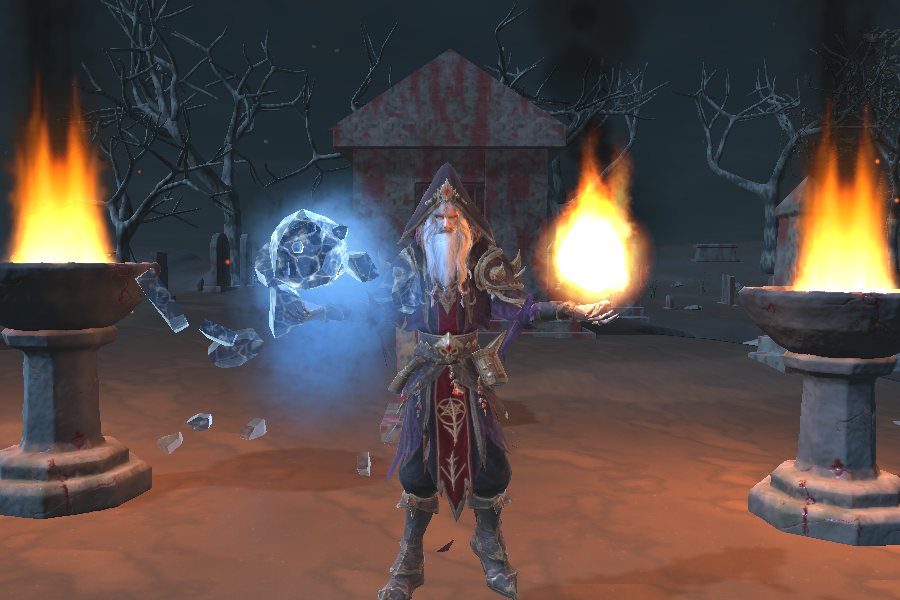
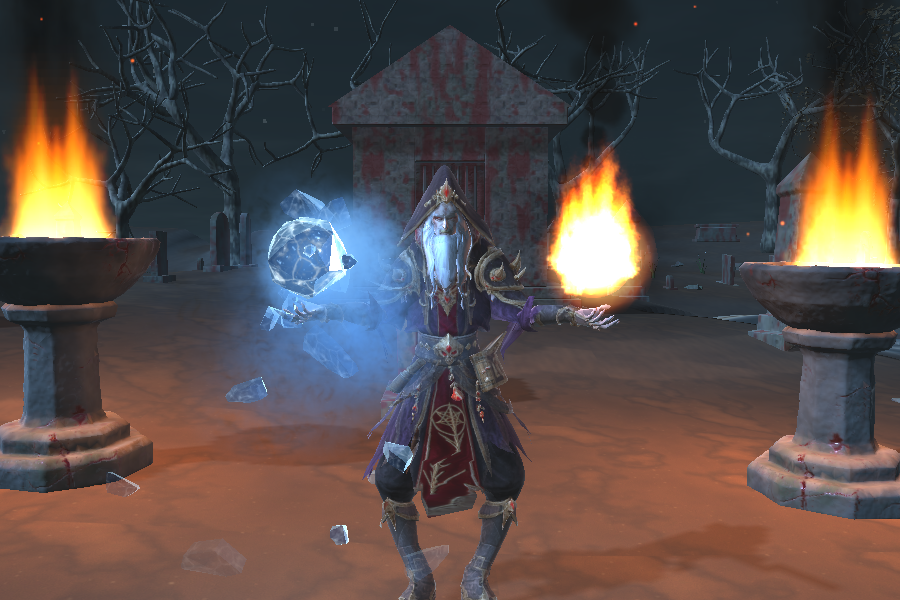
Man chinh: phu thuy dung yen, nhin thang may quay, hai chan bang nhau cham dat (nguoi dung)
- MainMenuUI: bo tu xoay 18 do/giay (xoa spinSpeed).
- TuTheTrungBay: Start quay mat thang vao Camera.main; moi khung xuong chan ve goc BIND POSE cua model (GocChanBind ghi cung - luoi Read/Write tat), dui + cang chan ngam thang xuong, ban chan phang; khung dau BakeMesh mot lan, ha goc cho ben ho nhieu nhat vua cham dat (dat doc: ben kia lun 1,6 cm).
- Truoc: menu 51 dat goc cao 0,2 m, lech may quay 20 do, tu the buoc do -> de giay ho 0,16 m. DungManChinh nay dat sat dat, nhin thang (chua chay lai menu 51).
- Menu 101c them do chan + huong (doi chung = tu the cu trong scene): lech 0,0 do (cu 20), ho dat 0,000 / -0,016 m (cu 0,163 / 0,152), co chan lech 0,000 (cu 0,079), goi 0 do (cu 75 / 53), de giay cham dat 0,32 / 0,32 m (cu 0,00 / 0,33), 2 s quay them 0,00 do; tay + qua cau giu nguyen. 0 loi.

diff --git a/Assets/Editor/ThuTayTrungBay.cs b/Assets/Editor/ThuTayTrungBay.cs
@@ -118,12 +118,90 @@ public static class ThuTayTrungBay
     static bool daBatDau101c;
     const string Ra101c = "PlayTestShots/tay_trungbay_play.txt";
 
+    /// <summary>So do chan + huong cua nhan vat trung bay (05/10/2026: dung hai chan bang nhau, cham dat, nhin thang may quay).</summary>
+    struct SoChan { public float lechMayQuay, kheTrai, khePhai, lechCoChan, lechMuiChan, rongChan, gapGoiTrai, gapGoiPhai, deTrai, dePhai; }
+
+    /// <summary>
+    /// Do DOC LAP voi TuTheTrungBay: mat dat lay bang Terrain.SampleHeight (code dung tia lop Ground), xuong chan doc thang tu khung
+    /// xuong (khong qua mang huong cua code), de giay = dinh thap nhat moi ben (BakeMesh) - ben chia theo mat phang giua cua XUONG HONG.
+    /// </summary>
+    static SoChan DoChan(Transform nv, Camera cam)
+    {
+        var s = new SoChan();
+        Vector3 veCam = cam.transform.position - nv.position; veCam.y = 0f;
+        Vector3 truoc = nv.forward; truoc.y = 0f;
+        s.lechMayQuay = Vector3.Angle(truoc, veCam);
+        Transform[] co = new Transform[2], mui = new Transform[2], dui = new Transform[2], cang = new Transform[2];
+        string[] ben = { "Left", "Right" };
+        foreach (var t in nv.GetComponentsInChildren<Transform>(true))
+            for (int i = 0; i < 2; i++)
+            {
+                if (t.name == ben[i] + "Foot") co[i] = t;
+                if (t.name == ben[i] + "ToeBase") mui[i] = t;
+                if (t.name == ben[i] + "UpLeg") dui[i] = t;
+                if (t.name == ben[i] + "Leg") cang[i] = t;
+            }
+        s.lechCoChan = Mathf.Abs(co[0].position.y - co[1].position.y);
+        s.lechMuiChan = Mathf.Abs(mui[0].position.y - mui[1].position.y);
+        s.rongChan = Mathf.Abs(Vector3.Dot(co[0].position - co[1].position, nv.right));
+        s.gapGoiTrai = Vector3.Angle(cang[0].position - dui[0].position, co[0].position - cang[0].position);
+        s.gapGoiPhai = Vector3.Angle(cang[1].position - dui[1].position, co[1].position - cang[1].position);
+        Vector3 giua = (dui[0].position + dui[1].position) * 0.5f, phai = (dui[1].position - dui[0].position); phai.y = 0f; phai.Normalize();
+        var thap = new[] { Vector3.up * 1e6f, Vector3.up * 1e6f };
+        var luoi = new UnityEngine.Mesh(); var dinh = new List<Vector3>(); var tatCa = new List<Vector3>();
+        foreach (var smr in nv.GetComponentsInChildren<SkinnedMeshRenderer>())
+        {
+            smr.BakeMesh(luoi, true); luoi.GetVertices(dinh);
+            foreach (var v in dinh)
+            {
+                Vector3 p = smr.transform.position + smr.transform.rotation * v;
+                tatCa.Add(p);
+                int i = Vector3.Dot(p - giua, phai) >= 0f ? 1 : 0;
+                if (p.y < thap[i].y) thap[i] = p;
+            }
+        }
+        Object.DestroyImmediate(luoi);
+        // DE GIAY PHANG: chieu dai (theo huong nhin) cua phan de nam trong 1,5 cm tren dinh thap nhat moi ben - dat phang thi ca de giay
+        // tu got toi mui cham dat (dai), kieng mui / nhac got thi chi mot diem (ngan)
+        var deMin = new[] { 1e6f, 1e6f }; var deMax = new[] { -1e6f, -1e6f };
+        Vector3 truocNv = nv.forward; truocNv.y = 0f; truocNv.Normalize();
+        foreach (var p in tatCa)
+        {
+            int i = Vector3.Dot(p - giua, phai) >= 0f ? 1 : 0;
+            if (p.y > thap[i].y + 0.015f) continue;
+            float z = Vector3.Dot(p, truocNv);
+            deMin[i] = Mathf.Min(deMin[i], z); deMax[i] = Mathf.Max(deMax[i], z);
+        }
+        s.deTrai = deMax[0] - deMin[0]; s.dePhai = deMax[1] - deMin[1];
+        var ter = Terrain.activeTerrain;
+        System.Func<Vector3, float> dat = p => ter != null ? ter.SampleHeight(p) + ter.transform.position.y : 0f;
+        s.kheTrai = thap[0].y - dat(thap[0]);
+        s.khePhai = thap[1].y - dat(thap[1]);
+        return s;
+    }
+
+    static string MoTa(SoChan s)
+    {
+        return string.Format("lech may quay {0:F1} do; khe de giay - dat: trai {1:F3} / phai {2:F3} m; co chan lech cao {3:F3} m, mui chan {4:F3} m; hai chan cach {5:F2} m; goi gap trai {6:F1} / phai {7:F1} do; de giay cham dat dai trai {8:F2} / phai {9:F2} m",
+            s.lechMayQuay, s.kheTrai, s.khePhai, s.lechCoChan, s.lechMuiChan, s.rongChan, s.gapGoiTrai, s.gapGoiPhai, s.deTrai, s.dePhai);
+    }
+
+    /// <summary>Doi chung: tu the CU dat san trong scene (doc truoc khi vao Play).</summary>
+    static string doiChung101c; static SoChan soCu101c;
+
     [MenuItem("Diablo 2.5D/101c Chay thu tu the tay + hai qua cau o man chinh", false, 169)]
     public static void ChayTuThe()
     {
         if (EditorApplication.isPlaying || EditorSceneManager.GetActiveScene().isDirty) return;
         if (EditorSceneManager.GetActiveScene().path != "Assets/Scenes/MainMenu.unity") EditorSceneManager.OpenScene("Assets/Scenes/MainMenu.unity");
         if (File.Exists(Ra101c)) File.Delete(Ra101c);
+        var menuCu = Object.FindAnyObjectByType<MainMenuUI>();
+        doiChung101c = null;
+        if (menuCu != null && menuCu.showcase != null && Camera.main != null)
+        {
+            soCu101c = DoChan(menuCu.showcase, Camera.main);
+            doiChung101c = MoTa(soCu101c);
+        }
         daBatDau101c = false;
         EditorApplication.update -= Nhip101c;
         EditorApplication.update += Nhip101c;
@@ -151,12 +229,53 @@ public static class ThuTayTrungBay
         kiem(tt != null, "MainMenuUI khong gan TuTheTrungBay");
         if (tt != null)
         {
-            // Dung xoay, quay mat ve may quay nhu luc dung scene (menu 51) de do ben man hinh
-            float quay = menu.spinSpeed; menu.spinSpeed = 0f;
+            // 05/10/2026: KHONG con dat tay huong / dung xoay - nhan vat phai TU nhin thang may quay, dung yen, hai chan cham dat
             var cam = Camera.main;
-            Vector3 veCam = cam.transform.position - nv.position; veCam.y = 0f;
-            nv.rotation = Quaternion.LookRotation(veCam.normalized);
             yield return new WaitForSeconds(1.5f);
+            {
+                float yaw0 = nv.eulerAngles.y; float y0 = nv.position.y;
+                var moi = DoChan(nv, cam);
+                yield return new WaitForSeconds(2f);
+                yield return new WaitForEndOfFrame();
+                var sau = DoChan(nv, cam);
+                float quayThem = Mathf.Abs(Mathf.DeltaAngle(yaw0, nv.eulerAngles.y));
+                sb.AppendLine("DOI CHUNG (tu the cu trong scene, truoc Play): " + (doiChung101c ?? "KHONG DO DUOC"));
+                sb.AppendLine("MOI (Play 1,5 s): " + MoTa(moi));
+                sb.AppendLine("MOI (them 2 s):  " + MoTa(sau) + string.Format("; quay them {0:F2} do, goc dich {1:F3} m", quayThem, nv.position.y - y0));
+                var tt2 = nv.GetComponent<TuTheTrungBay>();
+                sb.AppendLine(string.Format("TuTheTrungBay: da dich goc {0:F3} m, khe de giay theo code trai {1:F3} / phai {2:F3}", tt2.DaDichGoc, tt2.KheDeGiay.x, tt2.KheDeGiay.y));
+                kiem(doiChung101c != null && soCu101c.lechMayQuay > 5f && Mathf.Max(soCu101c.kheTrai, soCu101c.khePhai) > 0.05f && soCu101c.lechCoChan > 0.05f
+                    && Mathf.Min(soCu101c.deTrai, soCu101c.dePhai) < 0.2f,
+                    "doi chung (tu the cu) khong lo loi -> phep do khong phan biet duoc");
+                foreach (var s in new[] { moi, sau })
+                {
+                    kiem(s.lechMayQuay < 1f, "nhan vat khong nhin thang may quay");
+                    // khong ben nao ho (> 5 mm); dat doc nen ben dat cao duoc lun toi 4,5 cm
+                    kiem(Mathf.Max(s.kheTrai, s.khePhai) <= 0.005f && Mathf.Max(s.kheTrai, s.khePhai) >= -0.005f, "de giay ho dat (lo lung) hoac ca hai lun");
+                    kiem(Mathf.Min(s.kheTrai, s.khePhai) >= -0.045f, "mot ben lun qua sau");
+                    // de giay phang: doi chung tu the cu - chan dang nhac 0,00 m, chan cham dat 0,33 m
+                    kiem(s.deTrai >= 0.2f && s.dePhai >= 0.2f, "de giay khong dat phang (kieng mui / nhac got)");
+                    kiem(s.lechCoChan <= 0.015f && s.lechMuiChan <= 0.015f, "hai chan khong bang nhau");
+                    kiem(s.gapGoiTrai < 5f && s.gapGoiPhai < 5f, "goi con gap (chan khong thang)");
+                    kiem(s.rongChan > 0.12f && s.rongChan < 0.40f, "hai ban chan qua sat / qua xa");
+                }
+                kiem(quayThem < 0.1f, "nhan vat van tu xoay");
+                // anh can chan: truoc mat va canh ben
+                var goC = new GameObject("TAM_CamChan"); var cc = goC.AddComponent<Camera>(); cc.CopyFrom(cam); cc.enabled = false; cc.fieldOfView = 30f; cc.nearClipPlane = 0.05f;
+                var rtC = new RenderTexture(800, 800, 24);
+                Vector3 tamC = nv.position + Vector3.up * 0.5f;
+                foreach (var cap in new[] { new KeyValuePair<string, Vector3>("truoc", nv.forward), new KeyValuePair<string, Vector3>("ben", nv.right) })
+                {
+                    goC.transform.position = tamC + cap.Value * 3.2f; goC.transform.LookAt(tamC);
+                    cc.targetTexture = rtC; cc.Render(); cc.targetTexture = null;
+                    var cu = RenderTexture.active; RenderTexture.active = rtC;
+                    var tx = new Texture2D(800, 800, TextureFormat.RGB24, false); tx.ReadPixels(new Rect(0, 0, 800, 800), 0, 0); tx.Apply();
+                    RenderTexture.active = cu;
+                    File.WriteAllBytes("PlayTestShots/manchinh_chan_moi_" + cap.Key + ".png", tx.EncodeToPNG());
+                    Object.Destroy(tx);
+                }
+                Object.Destroy(rtC); Object.Destroy(goC);
+            }
             var hh = nv.GetComponentInChildren<NguoiChoiHoatHinh>();
             Transform hong = hh.hips, nguc = hh.spine;
             foreach (var tay in new[] { tt.BanTayLua, tt.BanTayBang })
@@ -268,7 +387,6 @@ public static class ThuTayTrungBay
                 File.WriteAllBytes("PlayTestShots/tay_trungbay_can.png", tx.EncodeToPNG());
                 Object.Destroy(tx); Object.Destroy(rt); Object.Destroy(goC);
             }
-            menu.spinSpeed = quay;
         }
         sb.AppendLine("so loi ghi nhan = " + loi);
         File.WriteAllText(Ra101c, sb.ToString());

diff --git a/Assets/Scripts/UI/TuTheTrungBay.cs b/Assets/Scripts/UI/TuTheTrungBay.cs
@@ -12,6 +12,12 @@ using UnityEngine;
 /// BakeMesh hai lan, PCA cac dinh di theo) va chon dau bang anh chup can menu 101b (phia co nhan o mu ngon la MU tay).
 /// Hai qua cau: VfxFactory.BuildFireballVisual / BuildQuaCauBangVisual (dung hinh cua ky nang that), ban kinh BanKinhCau, lo lung tren
 /// long ban tay, nhap nho nhe. Gan luc chay tu MainMenuUI.Start - KHONG sua scene MainMenu (dung bang menu 51).
+///
+/// DUNG HAI CHAN BANG NHAU, CHAM DAT, NHIN THANG MAY QUAY (nguoi dung 05/10/2026: "dung 2 chan bang nhau, khong lo lung tren khong trung,
+/// nhin thang chinh dien ve phia nguoi choi; khong can tu quay"). Truoc do: menu 51 dat goc nhan vat CAO 0,2 m tren dat va quay lech may quay
+/// 20 do, tu the goc cua prefab la buoc do (chan trai nhac cao hon chan phai 0,10 m) -> de giay ho dat 0,15 m. Nay: Start quay mat thang vao
+/// may quay; moi khung xuong chan ve goc BIND POSE cua model (GocChanBind), dui + cang chan NGAM THANG XUONG, ban chan dat phang theo bind
+/// pose; khung dau tien BakeMesh mot lan, ha / nang goc cho de giay cham mat dat (Ground), khong ben nao ho.
 /// </summary>
 [DefaultExecutionOrder(10020)]
 public class TuTheTrungBay : MonoBehaviour
@@ -91,6 +97,116 @@ public class TuTheTrungBay : MonoBehaviour
     Transform cauLua, cauBang;
     float batDau;
 
+    // ---- Chan: 0 = trai, 1 = phai ----
+    readonly Transform[] duiTren = new Transform[2], cangChan = new Transform[2], banChan = new Transform[2], muiChan = new Transform[2];
+    bool coChan, daHaDat;
+
+    /// <summary>
+    /// Goc xoay xuong chan o TU THE DUNG CUA MODEL (bind pose - ban chan dat PHANG, co giay thang dung), so voi goc nhan vat; [ben, khop]
+    /// ben 0 trai / 1 phai, khop UpLeg / Leg / Foot / ToeBase. Doc tu Mesh.bindposes cua Player_Sorceress trong Editor 05/10/2026 roi GHI
+    /// CUNG: luoi Meshy Read/Write TAT, ban build co the khong doc duoc bindposes. Lan dau lay do doc ban chan tu tu the goc (buoc do)
+    /// thi ban chan kieng mui, co giay nghieng (anh menu 101c).
+    /// </summary>
+    static readonly Quaternion[,] GocChanBind =
+    {
+        { new Quaternion(0.99241f, 0.08686f, -0.08686f, 0.00484f), new Quaternion(0.87738f, -0.33069f, 0.33069f, -0.10719f),
+          new Quaternion(0.89397f, -0.09097f, 0.09097f, 0.42926f), new Quaternion(0.69862f, -0.10925f, 0.10925f, 0.69862f) },
+        { new Quaternion(0.99428f, -0.07553f, 0.07553f, 0.00201f), new Quaternion(0.88677f, 0.31438f, -0.31438f, -0.12634f),
+          new Quaternion(0.88656f, 0.08998f, -0.08998f, 0.44476f), new Quaternion(0.69913f, 0.10594f, -0.10594f, 0.69913f) },
+    };
+
+    /// <summary>Phep thu (menu 101c) doc: goc da dich len / xuong bao nhieu de cham dat, va khe de giay - dat moi ben sau khi dich.</summary>
+    public float DaDichGoc { get; private set; }
+    public Vector2 KheDeGiay { get; private set; }
+
+    static Transform TimKhop(Transform goc, string ten)
+    {
+        foreach (var t in goc.GetComponentsInChildren<Transform>(true)) if (t.name == ten) return t;
+        return null;
+    }
+
+    /// <summary>Quay mat thang vao may quay chinh (chi quanh truc dung).</summary>
+    void QuayMatVeMayQuay()
+    {
+        var cam = Camera.main;
+        if (cam == null) return;
+        Vector3 v = cam.transform.position - transform.position; v.y = 0f;
+        if (v.sqrMagnitude > 1e-4f) transform.rotation = Quaternion.LookRotation(v.normalized, Vector3.up);
+    }
+
+    /// <summary>Tim xuong chan (UpLeg / Leg / Foot / ToeBase moi ben).</summary>
+    void ChuanBiChan()
+    {
+        string[] ben = { "Left", "Right" };
+        for (int i = 0; i < 2; i++)
+        {
+            duiTren[i] = TimKhop(transform, ben[i] + "UpLeg");
+            cangChan[i] = TimKhop(transform, ben[i] + "Leg");
+            banChan[i] = TimKhop(transform, ben[i] + "Foot");
+            muiChan[i] = TimKhop(transform, ben[i] + "ToeBase");
+            if (duiTren[i] == null || cangChan[i] == null || banChan[i] == null || muiChan[i] == null) return;
+        }
+        coChan = true;
+    }
+
+    /// <summary>
+    /// Hai chan bang nhau: moi xuong chan ve goc bind pose (dau goi huong truoc, khong xoan), roi dui + cang chan NGAM THANG XUONG (bind pose
+    /// dang chan chu A - ban chan cach 0,40 m; thang xuong thi duoi hong, cach 0,23 m), cuoi cung ban chan + mui chan ve dung goc bind (dat phang).
+    /// </summary>
+    void DungThangChan()
+    {
+        Quaternion q = transform.rotation;
+        for (int i = 0; i < 2; i++)
+        {
+            duiTren[i].rotation = q * GocChanBind[i, 0];
+            cangChan[i].rotation = q * GocChanBind[i, 1];
+            NguoiChoiHoatHinh.NgamHuongKhop(duiTren[i], cangChan[i], Vector3.down, 1f);
+            NguoiChoiHoatHinh.NgamHuongKhop(cangChan[i], banChan[i], Vector3.down, 1f);
+            banChan[i].rotation = q * GocChanBind[i, 2];
+            muiChan[i].rotation = q * GocChanBind[i, 3];
+        }
+    }
+
+    /// <summary>Mot lan: BakeMesh lay dinh thap nhat moi ben (de giay), so voi mat dat ngay duoi, dich goc cho ben ho nhieu nhat vua cham dat.</summary>
+    void HaChanXuongDat()
+    {
+        var thap = new[] { Vector3.up * 1e6f, Vector3.up * 1e6f };
+        var luoi = new Mesh();
+        var dinh = new System.Collections.Generic.List<Vector3>();
+        Vector3 goc = transform.position, phai = transform.right;
+        foreach (var smr in GetComponentsInChildren<SkinnedMeshRenderer>())
+        {
+            smr.BakeMesh(luoi, true);
+            luoi.GetVertices(dinh);
+            var m = Matrix4x4.TRS(smr.transform.position, smr.transform.rotation, Vector3.one);
+            foreach (var v in dinh)
+            {
+                Vector3 p = m.MultiplyPoint3x4(v);
+                int i = Vector3.Dot(p - goc, phai) >= 0f ? 1 : 0;
+                if (p.y < thap[i].y) thap[i] = p;
+            }
+        }
+        Destroy(luoi);
+        if (thap[0].y > 1e5f || thap[1].y > 1e5f) return;
+        float kheTrai = thap[0].y - MatDat(thap[0]), khePhai = thap[1].y - MatDat(thap[1]);
+        // KHONG chan nao ho dat (nguoi dung: "khong cho lo lung"): dat doc nhe nen hai ban chan bang nhau thi ben dat cao hon lun vao dat
+        // vai cm (cho dung man chinh: dat duoi hai chan chenh 3,4 cm). Lay trung binh thi ben dat thap ho 1,7 cm - da thu, bo.
+        float dich = -Mathf.Max(kheTrai, khePhai);
+        transform.position += Vector3.up * dich;
+        DaDichGoc = dich;
+        KheDeGiay = new Vector2(kheTrai + dich, khePhai + dich);
+    }
+
+    /// <summary>Do cao mat dat (lop Ground) ngay duoi diem p; khong trung thi lay Terrain.</summary>
+    static float MatDat(Vector3 p)
+    {
+        int lop = LayerMask.NameToLayer("Ground");
+        RaycastHit h;
+        if (lop >= 0 && Physics.Raycast(p + Vector3.up * 3f, Vector3.down, out h, 10f, 1 << lop, QueryTriggerInteraction.Ignore)) return h.point.y;
+        var t = Terrain.activeTerrain;
+        return t != null ? t.SampleHeight(p) + t.transform.position.y : p.y;
+    }
+
     /// <summary>Phep thu (menu 101c) doc: tay nao cam lua.</summary>
     public Transform BanTayLua { get; private set; }
     public Transform BanTayBang { get; private set; }
@@ -105,9 +221,10 @@ public class TuTheTrungBay : MonoBehaviour
         if (tayTraiTren == null || tayTraiDuoi == null || banTayTrai == null || tayPhaiTren == null || tayPhaiDuoi == null || banTayPhai == null)
         { enabled = false; return; }
         batDau = Time.time;
+        QuayMatVeMayQuay();
+        ChuanBiChan();
 
-        // Lua ben PHAI man hinh khi nhan vat quay mat ve may quay: nhan vat nhin vao may quay thi tay TRAI cua no nam ben phai man hinh
-        // (menu 51 dat nhan vat quay mat ve may quay; MainMenuUI cho nhan vat xoay cham 18 do/giay nen luc quay lung thi doi ben)
+        // Lua ben PHAI man hinh: nhan vat nhin thang vao may quay (dung yen, khong con tu xoay) thi tay TRAI cua no nam ben phai man hinh
         BanTayLua = banTayTrai; BanTayBang = banTayPhai;
 
         var goLua = new GameObject("CauLuaTrenTay");
@@ -168,6 +285,12 @@ public class TuTheTrungBay : MonoBehaviour
 
     void LateUpdate()
     {
+        // Chan dung ngay tu khung dau (khong hoa dan) roi moi ha xuong dat mot lan - chan khong bao gio ho dat
+        if (coChan)
+        {
+            DungThangChan();
+            if (!daHaDat) { HaChanXuongDat(); daHaDat = true; }
+        }
         float w = Mathf.SmoothStep(0f, 1f, (Time.time - batDau) / GiayVaoTuThe);
         Transform goc = hh.transform;
         Vector3 f = goc.forward, r = goc.right, u = Vector3.up;

diff --git a/Assets/Scripts/UI/MainMenuUI.cs b/Assets/Scripts/UI/MainMenuUI.cs
@@ -11,8 +11,9 @@ public class MainMenuUI : MonoBehaviour
     public string act2Scene = "Act2";
 
     [Header("Nhan vat dung lam nen")]
-    public Transform showcase;          // phu thuy dung xoay tron o man hinh chinh
-    public float spinSpeed = 18f;
+    // Phu thuy dung YEN, nhin thang vao may quay (nguoi dung 05/10/2026: "khong can cho nhan vat tu quay 1 cho" - truoc xoay 18 do/giay).
+    // Huong mat + chan cham dat do TuTheTrungBay dat.
+    public Transform showcase;
 
     [Header("Choi nhieu nguoi")]
     [Tooltip("Bat len thi phai dang nhap moi vao duoc menu; tat thi choi don nhu cu")]
@@ -55,9 +56,6 @@ public class MainMenuUI : MonoBehaviour
 
     void Update()
     {
-        if (showcase != null)
-            showcase.Rotate(Vector3.up, spinSpeed * Time.deltaTime, Space.World);
-
         // Choi mang thi man nay CHI CO dang nhap va sanh cho - menu choi don cu
         // (nut VAO CHOI, phim Enter vao thang man choi) khong con nua.
         if (batChoiMang) return;

diff --git a/Assets/Editor/DungManChinh.cs b/Assets/Editor/DungManChinh.cs
@@ -146,7 +146,8 @@ public static class DungManChinh
         var nv = (GameObject)PrefabUtility.InstantiatePrefab(pfNv, moi);
         nv.name = "PhuThuy_TrungBay";
         nv.tag = "Untagged";
-        nv.transform.SetPositionAndRotation(cho + Vector3.up * 0.2f, Quaternion.Euler(0f, HuongNhin + 200f, 0f));
+        // Dat sat dat, nhin thang may quay (05/10/2026 - truoc cao 0,2 m va lech 20 do; luc chay TuTheTrungBay con quay mat + ha de giay cham dat)
+        nv.transform.SetPositionAndRotation(cho, Quaternion.Euler(0f, HuongNhin + 180f, 0f));
         TatDieuKhien(nv);
 
         var camGo = new GameObject("Main Camera");

diff --git a/HUONG-DAN.md b/HUONG-DAN.md
@@ -9338,6 +9338,43 @@ như trong trận, thu nhỏ**; **bàn tay ngang bụng, chìa sang hai bên**.
 (xương hông 0,90, xương ngực 1,22 → ngang bụng), ra trước 0,41–0,43 m, ra hai bên 0,37 m; quả cầu lửa ở **x 0,56**, băng **x 0,44** màn hình;
 quả cầu cách lòng tay 0,19–0,20 m; 88–106 hạt mỗi quả; 0 lỗi. Ảnh: `PlayTestShots/tay_trungbay_can.png`, `tay_trungbay_man_chinh.png`.
 
+### Màn chính: phù thuỷ đứng yên, hai chân bằng nhau chạm đất, nhìn thẳng người chơi (05/10/2026)
+
+**Người dùng:** "cho nhân vật phù thủy đứng 2 chân bằng nhau (lưu ý không cho lơ lửng trên không trung như hiện giờ) nhìn thẳng chính diện về
+phía người chơi; không cần cho nhân vật tự quay 1 chỗ".
+
+**Nguyên nhân lơ lửng** (đo trong scene): menu 51 đặt gốc nhân vật **cao 0,2 m** trên mặt đất (`cho + Vector3.up * 0.2f`) và
+`CharacterController` tắt nên không rơi xuống; tư thế gốc của prefab là **bước dở** — chân trái nhấc, hai gối gập 75° / 53°, cổ chân lệch cao
+0,079 m → đế giày hở đất 0,163 m (trái) / 0,152 m (phải). Nhân vật quay lệch máy quay 20° rồi `MainMenuUI` còn xoay 18°/s.
+
+**Sửa** (vẫn không sửa tay scene MainMenu):
+- `MainMenuUI`: bỏ xoay (xoá `spinSpeed`).
+- `TuTheTrungBay.Start`: quay mặt thẳng vào `Camera.main` (chỉ quanh trục đứng).
+- Mỗi khung (`DungThangChan`): mọi xương chân về góc **bind pose** của model (tư thế dựng của Meshy — bàn chân phẳng, cổ giày thẳng, đầu gối
+  hướng trước), rồi đùi + cẳng chân **ngắm thẳng xuống** (bind pose dạng chân chữ A, bàn chân cách 0,40 m; thẳng xuống thì dưới hông, 0,23 m),
+  bàn chân + mũi chân trả về đúng góc bind. Góc bind **ghi cứng** (`GocChanBind`, đọc từ `Mesh.bindposes` trong Editor): lưới Meshy tắt Read/Write,
+  bản build có thể không đọc được `bindposes`, mà ngoại lệ trên WebGL là đứng hình.
+- Khung đầu (`HaChanXuongDat`): BakeMesh một lần, lấy đỉnh thấp nhất mỗi bên so với mặt đất (tia lớp Ground), hạ gốc cho **bên hở nhiều nhất
+  vừa chạm đất**. Đất chỗ đứng hơi dốc nên bên kia lún 1,6 cm — lấy trung bình thì một bên hở 1,7 cm, trái ý "không lơ lửng".
+- ⚠ Lần thử đầu lấy độ dốc bàn chân từ chân đang chạm đất trong tư thế gốc (đối xứng sang chân kia) → số đo "bằng nhau, chạm đất" đạt hết nhưng
+  ảnh cận cho thấy **kiễng mũi, cổ giày nghiêng** (xoay tối thiểu giữ nguyên độ xoắn của tư thế bước). Bind pose sửa được cả hai.
+- Menu 51 (`DungManChinh`): đặt sát đất, nhìn thẳng (`HuongNhin + 180`) — chưa chạy lại (chạy lại thì mặt đất màn chính dùng chung Act2).
+
+**Đo — menu 101c** (Play, nhân vật TỰ đặt hướng, không còn dừng xoay hộ; mặt đất đọc bằng `Terrain.SampleHeight` — code dùng tia Ground;
+**đối chứng = tư thế cũ trong scene, đo trước khi vào Play**):
+
+| | cũ (đối chứng) | mới (1,5 s và 3,5 s) |
+|---|---|---|
+| lệch hướng máy quay | 20,0° | **0,0°** |
+| đế giày hở đất trái / phải | 0,163 / 0,152 m | **0,000 / −0,016 m** |
+| cổ chân lệch cao · mũi chân | 0,079 · 0,023 m | **0,000 · 0,005 m** |
+| gối gập trái / phải | 74,6° / 52,7° | **0,0° / 0,0°** |
+| đế giày chạm đất dài trái / phải (trong 1,5 cm) | 0,00 / 0,33 m | **0,32 / 0,32 m** |
+| quay thêm sau 2 s | — | **0,00°** |
+
+Tay + hai quả cầu giữ nguyên (lòng tay · lên 1,000; lửa x 0,56, băng x 0,44). 0 lỗi. Ảnh: `PlayTestShots/manchinh_chan_cu_truoc|ben.png`
+(cũ), `manchinh_chan_moi_truoc|ben.png` (mới).
+
 ### Gió lốc 2 lốc (cấp 5: 3 lốc) cách xa hơn · Mây giông cao 8 m, mưa dày hơn (04/10/2026, lần năm)
 
 **Người dùng:** Gió lốc "cấp đầu tiên chỉ cho đánh ra 2 lốc, mỗi lốc cách xa nhau ra 1 chút; cấp 5 đánh ra 3 lốc"; Mây giông "đám mây bay cao
